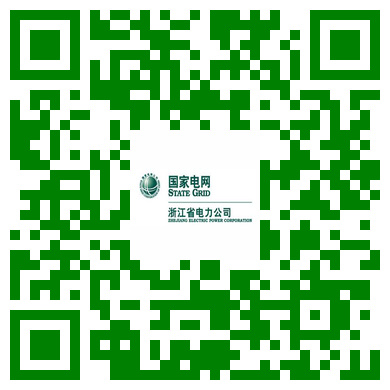
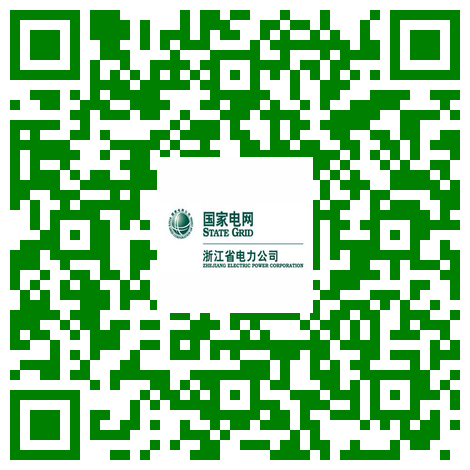
new add

diff --git a/.virtual_documents/二维码/qrcode3.ipynb.py b/.virtual_documents/二维码/qrcode3.ipynb.py
@@ -7,7 +7,7 @@ import matplotlib.pyplot as plt
 
 def qr_code():
     # 实例化QRCode生成qr对象
-        '''
+    '''
     参数 version 表示生成二维码的尺寸大小，取值范围是 1 至 40，最小尺寸 1 会生成 21 * 21 的二维码矩阵，
     version 每增加 1，生成的二维码就会添加 4 个单位大小，例如 version 是 2，则生成 25 * 25 尺寸大小的二维码。
 
@@ -26,7 +26,12 @@ def qr_code():
         box_size=10,
         border=1
     )
-    qr.add_data("2021信通岗位新进员工技能强化班\n2021信通岗位新进员工技能强化班")# 添加数据
+    text1="""2021信通岗位新进员工技能强化班\n\r"""
+    text2="""原定6月举办\n"""
+            #延期至7月"""
+    #qr.add_data('2021信通岗位新进员工技能强化班\t\n')# 添加数据
+    qr.add_data(text1)
+    qr.add_data(text2)
     qr.make(fit=True)# 填充数据
     
    # 生成图片
